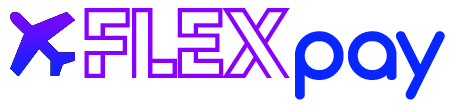
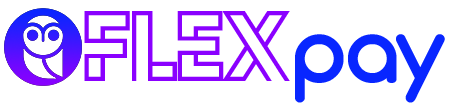
02120751

Changed region(s): [[0.0, 0.0571, 0.9933, 0.9714], [0.1863, 0.7429, 0.2483, 0.7714]]

diff --git a/templates/navbar.html b/templates/navbar.html
@@ -5,7 +5,7 @@
 </nav> -->
 <nav class="navbar navbar-expand-lg bg-light navbar-dark">
     <div class="container">
-      <a class="navbar-brand display-1" href="/"><img src="{% static 'images/FlexPay_Transparent.png' %}" style="width:200px;"></a>
+      <a class="navbar-brand display-1" href="/"><img src='https://i.ibb.co/QkC9FRW/Flex-Pay-Transparent.png' style="width:200px;"></a>
       <!-- <button 
         class="navbar-toggler" 
         type="button" 

diff --git a/templates/main.html b/templates/main.html
@@ -12,8 +12,8 @@
     <meta name='viewport' content='width=device-width, initial-scale=1'>
     <link rel="stylesheet" type="text/css" media="screen" href="{% static 'styles/main.css' %}">
 </head>
-<body>
-<!-- <body style="background-image: url('https://i.ibb.co/km6Ncdm/background-Fp-transparent.png');"> -->
+<!-- <body> -->
+<body style="background-image: url('https://i.ibb.co/C27Q4W4/background.png');">
       
 
     {% include 'navbar.html' %}
